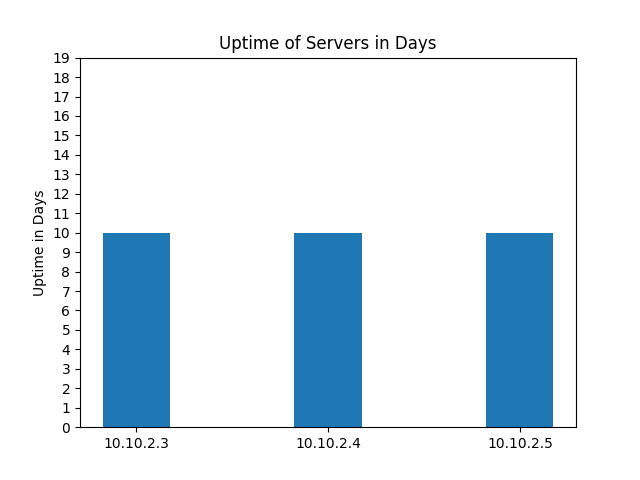
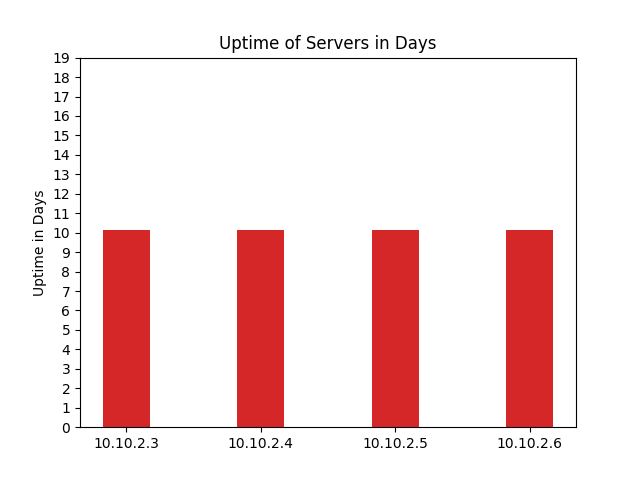
sql operations and python3

Changed region(s): [[0.3438, 0.4688, 0.6875, 0.9375], [0.125, 0.4688, 0.2812, 0.9375], [0.75, 0.4688, 0.875, 0.9375]]

diff --git a/sqldb/database03.py b/sqldb/database03.py
@@ -1,0 +1,18 @@
+#!/usr/bin/env python3
+
+import sqlite3
+conn = sqlite3.connect('test.db')
+print("Opened database successfully")
+
+conn.execute("INSERT INTO COMPANY (ID,NAME,AGE,ADDRESS,SALARY) VALUES (1, 'Paul', 32, 'California', 20000.00 )")
+
+conn.execute("INSERT INTO COMPANY (ID,NAME,AGE,ADDRESS,SALARY) VALUES (2, 'Allen', 25, 'Texas', 15000.00 )")
+
+conn.execute("INSERT INTO COMPANY (ID,NAME,AGE,ADDRESS,SALARY) VALUES (3, 'Teddy', 23, 'Norway', 20000.00 )")
+
+conn.execute("INSERT INTO COMPANY (ID,NAME,AGE,ADDRESS,SALARY) VALUES (4, 'Mark', 25, 'Rich-Mond ', 65000.00 )")
+
+conn.commit()
+print("Records created successfully")
+conn.close()
+

diff --git a/sqldb/database06.py b/sqldb/database06.py
@@ -1,0 +1,21 @@
+                                                                                                    #!/usr/bin/env python3
+
+import sqlite3
+
+conn = sqlite3.connect('test.db')
+print("Opened database successfully")
+
+conn.execute("DELETE from COMPANY where ID = 2;")
+conn.commit()
+print("Total number of rows deleted :", conn.total_changes)
+
+cursor = conn.execute("SELECT id, name, address, salary from COMPANY")
+for row in cursor:
+    print("ID = ", row[0])
+    print("NAME = ", row[1])
+    print("ADDRESS = ", row[2])
+    print("SALARY = ", row[3], "\n")
+
+print("Operation done successfully")
+conn.close()
+

diff --git a/sqldb/database05.py b/sqldb/database05.py
@@ -1,0 +1,21 @@
+#!/usr/bin/env python3
+
+import sqlite3
+
+conn = sqlite3.connect('test.db')
+print("Opened database successfully")
+
+conn.execute("UPDATE COMPANY set SALARY = 25000.00 where ID = 1")
+conn.commit()
+print("Total number of rows updated :", conn.total_changes)
+
+cursor = conn.execute("SELECT id, name, address, salary from COMPANY")
+for row in cursor:
+    print("ID = ", row[0])
+    print("NAME = ", row[1])
+    print("ADDRESS = ", row[2])
+    print("SALARY = ", row[3], "\n")
+
+print("Operation done successfully")
+conn.close()
+

diff --git a/flaskapi/graphapp01.py b/flaskapi/graphapp01.py
@@ -50,8 +50,10 @@ def graphin():
     xtick = tuple(xtick) # create a tuple
     svruptime = tuple(svruptime)
 
+    print(xtick)
+    print(svruptime)
     # graphin
-    N = 3 # total number of bars
+    N = len(svruptime) # total number of bars
     ind = np.arange(N)    # the x locations for the groups
     width = 0.35       # the width of the bars: can also be len(x) sequence
     p1 = plt.bar(ind, svruptime, width)

diff --git a/sqldb/database04.py b/sqldb/database04.py
@@ -1,0 +1,15 @@
+#!/usr/bin/env python3
+
+import sqlite3
+conn = sqlite3.connect('test.db')
+print("Opened database successfully")
+cursor = conn.execute("SELECT id, name, address, salary from COMPANY")
+for row in cursor:
+    print("ID = ", row[0])
+    print("NAME = ", row[1])
+    print("ADDRESS = ", row[2])
+    print("SALARY = ", row[3], "\n")
+
+print("Operation done successfully")
+conn.close()
+

diff --git a/sqldb/database02v2.py b/sqldb/database02v2.py
@@ -1,0 +1,14 @@
+#!/usr/bin/env python3
+
+import sqlite3
+conn = sqlite3.connect('test.db')
+print("Opened database successfully")
+conn.execute('''CREATE TABLE IF NOT EXISTS COMPANY
+ (ID INT PRIMARY KEY     NOT NULL,
+ NAME           TEXT    NOT NULL,
+ AGE            INT     NOT NULL,
+ ADDRESS        CHAR(50),
+ SALARY         REAL);''')
+print("Table created successfully")
+conn.close()
+

diff --git a/sqldb/database02.py b/sqldb/database02.py
@@ -1,0 +1,14 @@
+#!/usr/bin/env python3
+
+import sqlite3
+conn = sqlite3.connect('test.db')
+print("Opened database successfully")
+conn.execute('''CREATE TABLE COMPANY
+ (ID INT PRIMARY KEY     NOT NULL,
+ NAME           TEXT    NOT NULL,
+ AGE            INT     NOT NULL,
+ ADDRESS        CHAR(50),
+ SALARY         REAL);''')
+print("Table created successfully")
+conn.close()
+

diff --git a/sqldb/database01.py b/sqldb/database01.py
@@ -1,0 +1,6 @@
+#!/usr/bin/python3
+
+import sqlite3
+conn = sqlite3.connect('test.db')
+print("Opened database successfully")
+
